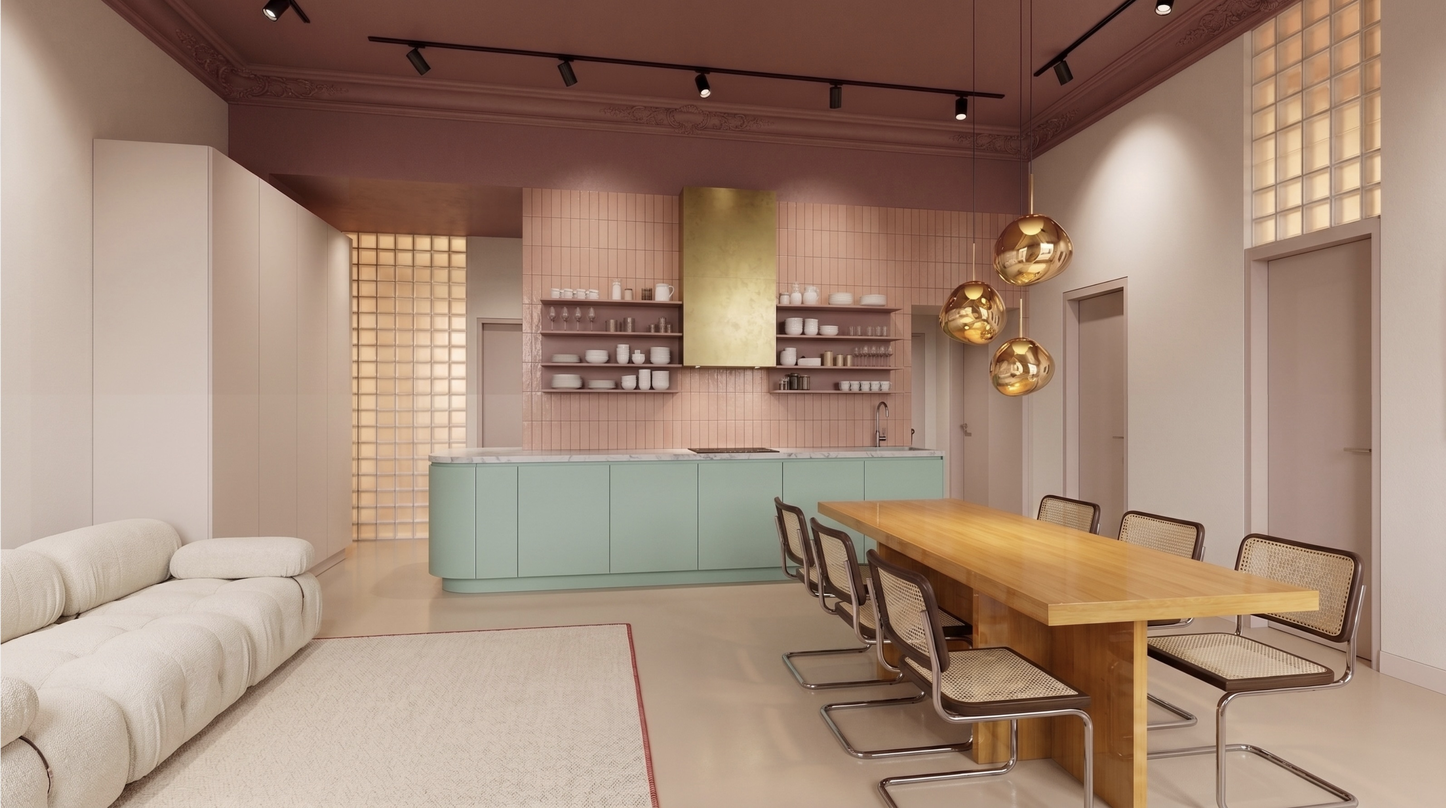
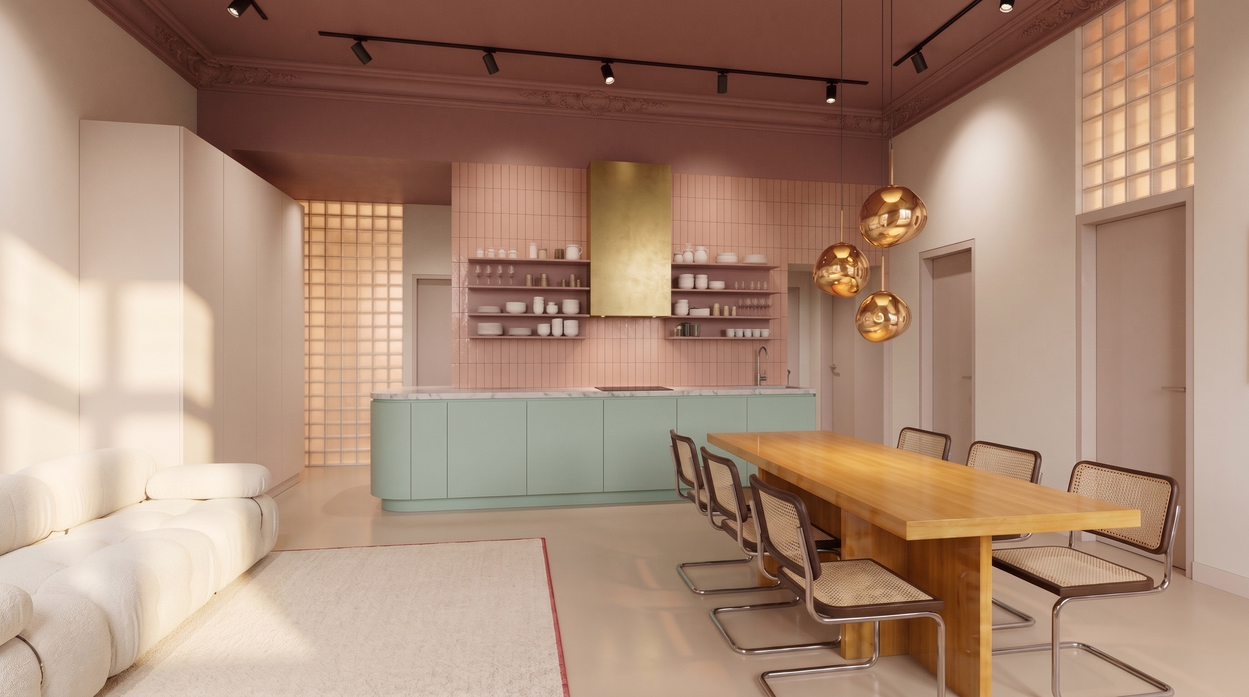
Replace three interiors with Kodak Portra grades

diff --git a/index.html b/index.html
@@ -5029,7 +5029,7 @@
             ],
             images: [
               "assets/interior/Pannierstr11-260830-BIIG-VIS-01_b.jpg",
-              "assets/interior/Pannierstr11-260903-BIIG-VIS-02_c.jpg",
+              "assets/interior/Pannierstr11-260903-BIIG-VIS-02_c.jpg?v=kodak",
             ],
           },
           zweihaeuser: {
@@ -5407,7 +5407,7 @@
               "assets/interior/geisenheim.jpeg",
               "assets/interior/geisenheim-gedecktertisch.png",
               "assets/interior/geisenheim-sundowner.png",
-              "assets/interior/alpenkantine-V01.png?v=2",
+              "assets/interior/alpenkantine-V01.png?v=kodak",
               "assets/interior/alpenkantine-V2.png",
             ],
           },
@@ -5803,7 +5803,7 @@
             captionEn: "Hair salon, Berlin-Kreuzberg 2027",
           },
           {
-            src: "assets/interior/Pannierstr11-260903-BIIG-VIS-02_c.jpg",
+            src: "assets/interior/Pannierstr11-260903-BIIG-VIS-02_c.jpg?v=kodak",
             altDe: "Ferienwohnung mit Stuck, Licht und behaglichem Interior",
             altEn: "Holiday apartment with stucco, light, and a cozy interior",
             captionDe: "Ferienwohnung, Berlin-Neukölln 2027",
@@ -5845,7 +5845,7 @@
             captionEn: "Hamburg Elbchaussee, apartment visual",
           },
           {
-            src: "assets/interior/BrassLiving-walkincloset01.png",
+            src: "assets/interior/BrassLiving-walkincloset03.png?v=kodak",
             altDe: "Begehbarer Kleiderschrank mit Messing und warmem Licht",
             altEn: "Walk-in closet with brass details and warm light",
             captionDe: "Brass Living, Berlin 2026",
@@ -5880,7 +5880,7 @@
             captionEn: "Living and dining room, Berlin 2026",
           },
           {
-            src: "assets/interior/alpenkantine-V01.png?v=2",
+            src: "assets/interior/alpenkantine-V01.png?v=kodak",
             altDe: "Alpenkantine in Hamburg-Eimsbüttel, Gastraum mit Markenauftritt",
             altEn: "Alpenkantine in Hamburg-Eimsbüttel, hospitality space with brand presence",
             captionDe: "Alpenkantine, Hamburg 2009",
@@ -8713,5 +8713,5 @@
     <script src="https://cdn.jsdelivr.net/npm/jspdf@2.5.2/dist/jspdf.umd.min.js" defer></script>
     <script src="biig-interior/bk-i18n.js" defer></script>
     <script src="biig-interior/biig-konfigurator.js" defer></script>
-  <!-- biig-export 2026-10-26T17:51Z --><script src="biig-kunst-link-fix.js"></script></body>
+  <!-- biig-export 2026-10-26T20:55Z --><script src="biig-kunst-link-fix.js"></script></body>
 </html>

diff --git a/kunst/index.html b/kunst/index.html
@@ -200,5 +200,5 @@
     <script src="../data/wga-bio.js"></script>
     <script src="../fc-swipe-slider.js" defer></script>
     <script src="../wolfganggrope.js" defer></script>
-  <!-- biig-export 2026-10-26T17:51Z --><script src="../biig-kunst-link-fix.js"></script></body>
+  <!-- biig-export 2026-10-26T20:55Z --><script src="../biig-kunst-link-fix.js"></script></body>
 </html>

diff --git a/datenschutz/index.html b/datenschutz/index.html
@@ -150,5 +150,5 @@
     </footer>
     <script src="../fc-i18n.js" defer></script>
     <script src="../fc-lang.js" defer></script>
-  <!-- biig-export 2026-10-26T17:51Z --><script src="../biig-kunst-link-fix.js"></script></body>
+  <!-- biig-export 2026-10-26T20:55Z --><script src="../biig-kunst-link-fix.js"></script></body>
 </html>

diff --git a/impressum/index.html b/impressum/index.html
@@ -130,5 +130,5 @@
     </footer>
     <script src="../fc-i18n.js" defer></script>
     <script src="../fc-lang.js" defer></script>
-  <!-- biig-export 2026-10-26T17:51Z --><script src="../biig-kunst-link-fix.js"></script></body>
+  <!-- biig-export 2026-10-26T20:55Z --><script src="../biig-kunst-link-fix.js"></script></body>
 </html>

diff --git a/kontakt/index.html b/kontakt/index.html
@@ -63,5 +63,5 @@
     </footer>
     <script src="../fc-i18n.js" defer></script>
     <script src="../fc-lang.js" defer></script>
-  <!-- biig-export 2026-10-26T17:51Z --><script src="../biig-kunst-link-fix.js"></script></body>
+  <!-- biig-export 2026-10-26T20:55Z --><script src="../biig-kunst-link-fix.js"></script></body>
 </html>

diff --git a/joscha/index.html b/joscha/index.html
@@ -939,5 +939,5 @@
     </footer>
     <script src="../fc-i18n.js" defer></script>
     <script src="../fc-lang.js" defer></script>
-<!-- biig-export 2026-10-26T17:51Z --><script src="../biig-kunst-link-fix.js"></script></body>
+<!-- biig-export 2026-10-26T20:55Z --><script src="../biig-kunst-link-fix.js"></script></body>
 </html>
